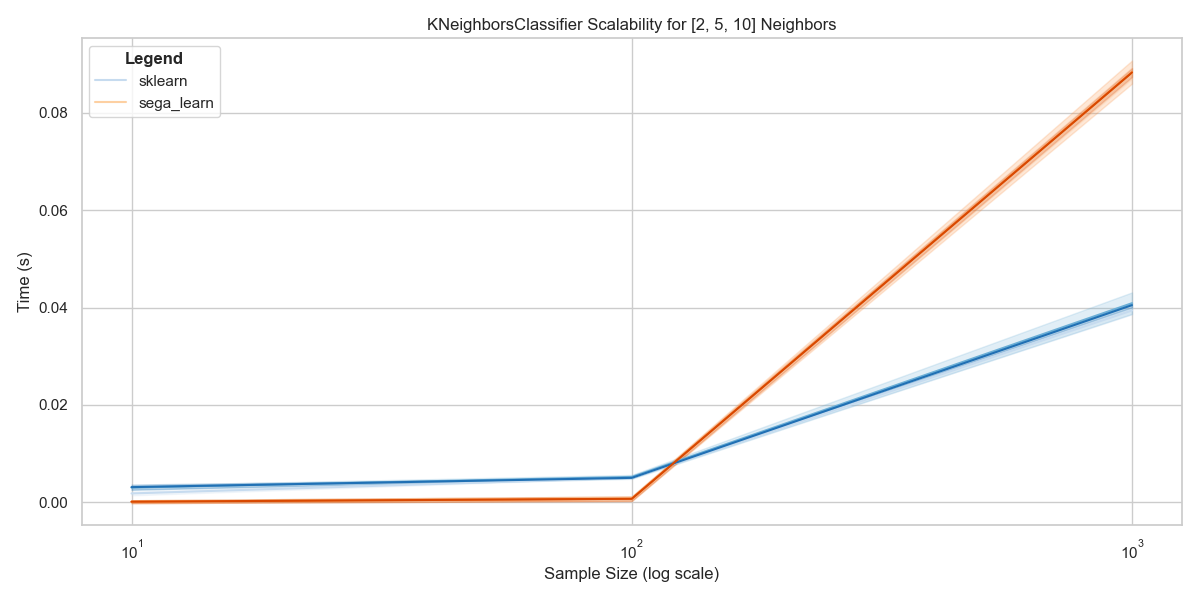
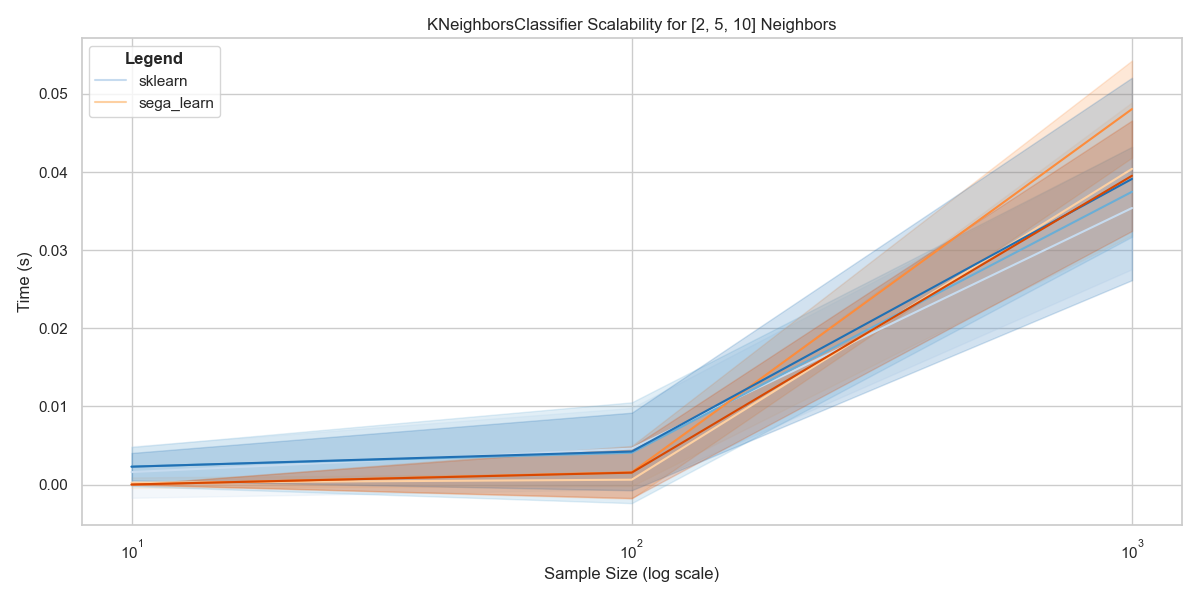
Add Numba support for KNeighborsRegressor and KNeighborsClassifier with performance optimizations

diff --git a/sega_learn/nearest_neighbors/base.py b/sega_learn/nearest_neighbors/base.py
@@ -6,7 +6,7 @@ from sega_learn.utils import DataPrep
 # Used here to define a base class for KNN algorithms.
 # This allows us to create a common interface for KNN classifiers and regressors.
 class KNeighborsBase(ABC):
-    def __init__(self, n_neighbors=5, distance_metric='euclidean', one_hot_encode=False, fp_precision=np.float64):
+    def __init__(self, n_neighbors=5, distance_metric='euclidean', one_hot_encode=False, fp_precision=np.float64, numba=False):
         """
         Initialize the KNeighborsBase class.
         Parameters:
@@ -14,7 +14,30 @@ class KNeighborsBase(ABC):
         - distance_metric: str, default='euclidean'. The distance metric to use for calculating distances.
         - one_hot_encode: bool, default=False. Whether to apply one-hot encoding to the categorical columns.
         - fp_precision: data type, default=np.float64. The floating point precision to use for the calculations.
+        - numba: bool, default=True. Whether to use numba for speeding up the calculations.
         """
+        if numba:
+            try:
+                from ._nearest_neighbors_jit_utils import _jit_compute_distances_euclidean, _jit_compute_distances_manhattan, _jit_compute_distances_minkowski
+                from ._nearest_neighbors_jit_utils import _numba_predict_regressor, _numba_predict_classifier
+                # Precompile the numba functions
+                _jit_compute_distances_euclidean(np.array([[0.0, 0.0]]), np.array([[0.0, 0.0]]))
+                _jit_compute_distances_manhattan(np.array([[0.0, 0.0]]), np.array([[0.0, 0.0]]))
+                _jit_compute_distances_minkowski(np.array([[0.0, 0.0]]), np.array([[0.0, 0.0]]), p=3)
+                
+                _numba_predict_regressor(np.array([[0.0, 0.0]]), np.array([0.0, 0.0]), 1)
+                _numba_predict_classifier(np.array([[0.0, 0.0]]), np.array([0.0, 0.0]), 1)
+                
+                self.numba = True
+            except ImportError:
+                self.numba = False
+                raise ImportError("Numba is not installed. Please install numba to use the numba optimized version of the KNN algorithm.")
+            except Exception as e:
+                self.numba = False
+                print(f"Error compiling numba functions: {e}")
+        else:
+            self.numba = False
+
         if n_neighbors <= 0:
             raise ValueError("n_neighbors must be a positive integer.")
         if one_hot_encode and not isinstance(one_hot_encode, bool):
@@ -126,12 +149,23 @@ class KNeighborsBase(ABC):
         # Check if the distance metric is valid
         if self.distance_metric not in ['euclidean', 'manhattan', 'minkowski']:
             raise ValueError(f"Unsupported distance metric: {self.distance_metric}")
-        if self.distance_metric == 'euclidean':
-            return self._compute_distances_euclidean(X)
-        elif self.distance_metric == 'manhattan':
-            return self._compute_distances_manhattan(X)
-        elif self.distance_metric == 'minkowski':
-            return self._compute_distances_minkowski(X)
+        
+        if self.numba:
+            from ._nearest_neighbors_jit_utils import _jit_compute_distances_euclidean, _jit_compute_distances_manhattan, _jit_compute_distances_minkowski
+            if self.distance_metric == 'euclidean':
+                return _jit_compute_distances_euclidean(X, self.X_train)
+            elif self.distance_metric == 'manhattan':
+                return _jit_compute_distances_manhattan(X, self.X_train)
+            elif self.distance_metric == 'minkowski':
+                return _jit_compute_distances_minkowski(X, self.X_train, p=3)
+        
+        else:
+            if self.distance_metric == 'euclidean':
+                return self._compute_distances_euclidean(X)
+            elif self.distance_metric == 'manhattan':
+                return self._compute_distances_manhattan(X)
+            elif self.distance_metric == 'minkowski':
+                return self._compute_distances_minkowski(X)
         
     def _compute_distances_euclidean(self, X):
         """

diff --git a/sega_learn/nearest_neighbors/_nearest_neighbors_jit_utils.py b/sega_learn/nearest_neighbors/_nearest_neighbors_jit_utils.py
@@ -1,0 +1,91 @@
+import numpy as np
+from numba import njit, prange
+
+# The following lines are used to compile the numba functions into shared library
+# from numba.pycc import CC
+# cc = CC('compiled_dbscan_jit_utils')
+# cc.verbose = True
+
+@njit(parallel=True, fastmath=True)
+def _jit_compute_distances_euclidean(X, X_train):
+    n_samples, n_features = X.shape
+    n_train_samples = X_train.shape[0]
+    distances = np.empty((n_samples, n_train_samples), dtype=np.float64)
+    for i in prange(n_samples):
+        for j in range(n_train_samples):
+            diff = X[i] - X_train[j]
+            distances[i, j] = np.sqrt(np.sum(diff ** 2))
+    return distances
+
+@njit(parallel=True, fastmath=True)
+def _jit_compute_distances_manhattan(X, X_train):
+    n_samples, n_features = X.shape
+    n_train_samples = X_train.shape[0]
+    distances = np.empty((n_samples, n_train_samples), dtype=np.float64)
+    for i in prange(n_samples):
+        for j in range(n_train_samples):
+            diff = X[i] - X_train[j]
+            distances[i, j] = np.sum(np.abs(diff))
+    return distances
+
+@njit(parallel=True, fastmath=True)
+def _jit_compute_distances_minkowski(X, X_train, p):
+    n_samples, n_features = X.shape
+    n_train_samples = X_train.shape[0]
+    distances = np.empty((n_samples, n_train_samples), dtype=np.float64)
+    for i in prange(n_samples):
+        for j in range(n_train_samples):
+            diff = X[i] - X_train[j]
+            distances[i, j] = np.power(np.sum(np.abs(diff) ** p), 1 / p)
+    return distances
+
+@njit(parallel=True, fastmath=True)
+def _numba_predict_regressor(distances, y_train, n_neighbors):
+    """
+    Numba-optimized helper function for KNN regression predictions.
+    Parameters:
+    - distances: 2D array of shape (n_samples, n_train_samples), precomputed distances.
+    - y_train: 1D array of shape (n_train_samples,), training labels.
+    - n_neighbors: int, number of nearest neighbors to consider.
+    Returns:
+    - predictions: 1D array of shape (n_samples,), predicted values.
+    """
+    n_samples = distances.shape[0]
+    predictions = np.empty(n_samples, dtype=np.float64)
+    
+    for i in prange(n_samples):
+        # Get the indices of the k nearest neighbors
+        nearest_indices = np.argsort(distances[i])[:n_neighbors]
+        # Compute the mean of the k nearest neighbors
+        predictions[i] = np.mean(y_train[nearest_indices])
+    
+    return predictions
+
+@njit(parallel=True, fastmath=True)
+def _numba_predict_classifier(distances, y_train, n_neighbors):
+    """
+    Numba-optimized helper function for KNN classification predictions.
+    Parameters:
+    - distances: 2D array of shape (n_samples, n_train_samples), precomputed distances.
+    - y_train: 1D array of shape (n_train_samples,), training labels.
+    - n_neighbors: int, number of nearest neighbors to consider.
+    Returns:
+    - predictions: 1D array of shape (n_samples,), predicted class labels.
+    """
+    n_samples = distances.shape[0]
+    predictions = np.empty(n_samples, dtype=np.int32)
+    
+    for i in prange(n_samples):
+        # Get the indices of the k nearest neighbors
+        nearest_indices = np.argsort(distances[i])[:n_neighbors]
+        # Get the labels of the k nearest neighbors
+        nearest_labels = y_train[nearest_indices].astype(np.int32)  # Cast to integer
+        # Find the most common label (mode) among the k nearest neighbors
+        label_counts = np.bincount(nearest_labels)
+        predictions[i] = np.argmax(label_counts)
+    
+    return predictions
+
+
+# if __name__ == "__main__":
+#     cc.compile()

diff --git a/tests_performance/scalability/nearest_neighbors.py b/tests_performance/scalability/nearest_neighbors.py
@@ -1,6 +1,7 @@
 import os
 import sys
 import time
+import numba
 import numpy as np
 import pandas as pd
 import matplotlib.pyplot as plt
@@ -10,18 +11,15 @@ import seaborn as sns
 # warnings.filterwarnings("ignore")
 
 sys.path.insert(0, os.path.abspath(os.path.join(os.path.dirname(__file__), '..')))
-from utils import suppress_print
+
 
 # Change the working directory to the parent directory to allow importing the segadb package.
 sys.path.append(os.path.abspath(os.path.join(os.path.dirname(__file__), '..', '..')))
 from sega_learn.nearest_neighbors import *
-from utils import suppress_print
 
 from sklearn.datasets import make_regression, make_classification
 from sklearn import neighbors
 
-
-MAX_ITER = 100
 
 class TestTime():
     def __init__(self, X, y, num_samples, num_runs):
@@ -32,9 +30,13 @@ class TestTime():
         
     def measure_performance(self, model_class_sklearn, model_class_sega, neighbors_to_test):
         def model_performance(model_class):
-            start_time = time.time()
+            
+            if model_class == KNeighborsRegressor or model_class == KNeighborsClassifier:
+                model = model_class(n_neighbors=neighbors_to_test, numba=True)
+            else:
+                model = model_class(n_neighbors=neighbors_to_test)
 
-            model = model_class(n_neighbors=neighbors_to_test)
+            start_time = time.time()
             model.fit(self.X, self.y)
             y_pred = model.predict(self.X)
 

diff --git a/sega_learn/nearest_neighbors/knn_classifier.py b/sega_learn/nearest_neighbors/knn_classifier.py
@@ -27,10 +27,15 @@ class KNeighborsClassifier(KNeighborsBase):
         # Compute the distances between all training samples and the input data
         distances = self._compute_distances(X)
         
-        # Find the indices of the k nearest neighbors, sort them, and select the top k
-        nearest_neighbors = np.argsort(distances, axis=1)[:, :self.n_neighbors]
-        top_k_y = self.y_train[nearest_neighbors]
+        if self.numba:
+            from ._nearest_neighbors_jit_utils import _numba_predict_classifier
+            predictions = _numba_predict_classifier(distances, self.y_train, self.n_neighbors)
+        else:
+            # Find the indices of the k nearest neighbors, sort them, and select the top k
+            nearest_neighbors = np.argsort(distances, axis=1)[:, :self.n_neighbors]
+            top_k_y = self.y_train[nearest_neighbors]
         
-        # For each sample, find the most common class label among the k nearest neighbors
-        predictions = np.array([np.bincount(labels.astype(int)).argmax() for labels in top_k_y])
+            # For each sample, find the most common class label among the k nearest neighbors
+            predictions = np.array([np.bincount(labels.astype(int)).argmax() for labels in top_k_y])
+            
         return predictions

diff --git a/sega_learn/nearest_neighbors/knn_regressor.py b/sega_learn/nearest_neighbors/knn_regressor.py
@@ -27,10 +27,15 @@ class KNeighborsRegressor(KNeighborsBase):
         # Compute the distances between all training samples and the input data
         distances = self._compute_distances(X)
         
-        # Find the indices of the k nearest neighbors, sort them, and select the top k
-        nearest_neighbors = np.argsort(distances, axis=1)[:, :self.n_neighbors]
-        top_k_y = self.y_train[nearest_neighbors]
+        if self.numba:
+            from ._nearest_neighbors_jit_utils import _numba_predict_regressor
+            predictions = _numba_predict_regressor(distances, self.y_train, self.n_neighbors)
+        else:
+            # Find the indices of the k nearest neighbors, sort them, and select the top k
+            nearest_neighbors = np.argsort(distances, axis=1)[:, :self.n_neighbors]
+            top_k_y = self.y_train[nearest_neighbors]
+            
+            # For each sample, find the mean of the k nearest neighbors
+            predictions = np.mean(top_k_y, axis=1)
         
-        # For each sample, find the mean of the k nearest neighbors
-        predictions = np.mean(top_k_y, axis=1)
         return predictions
